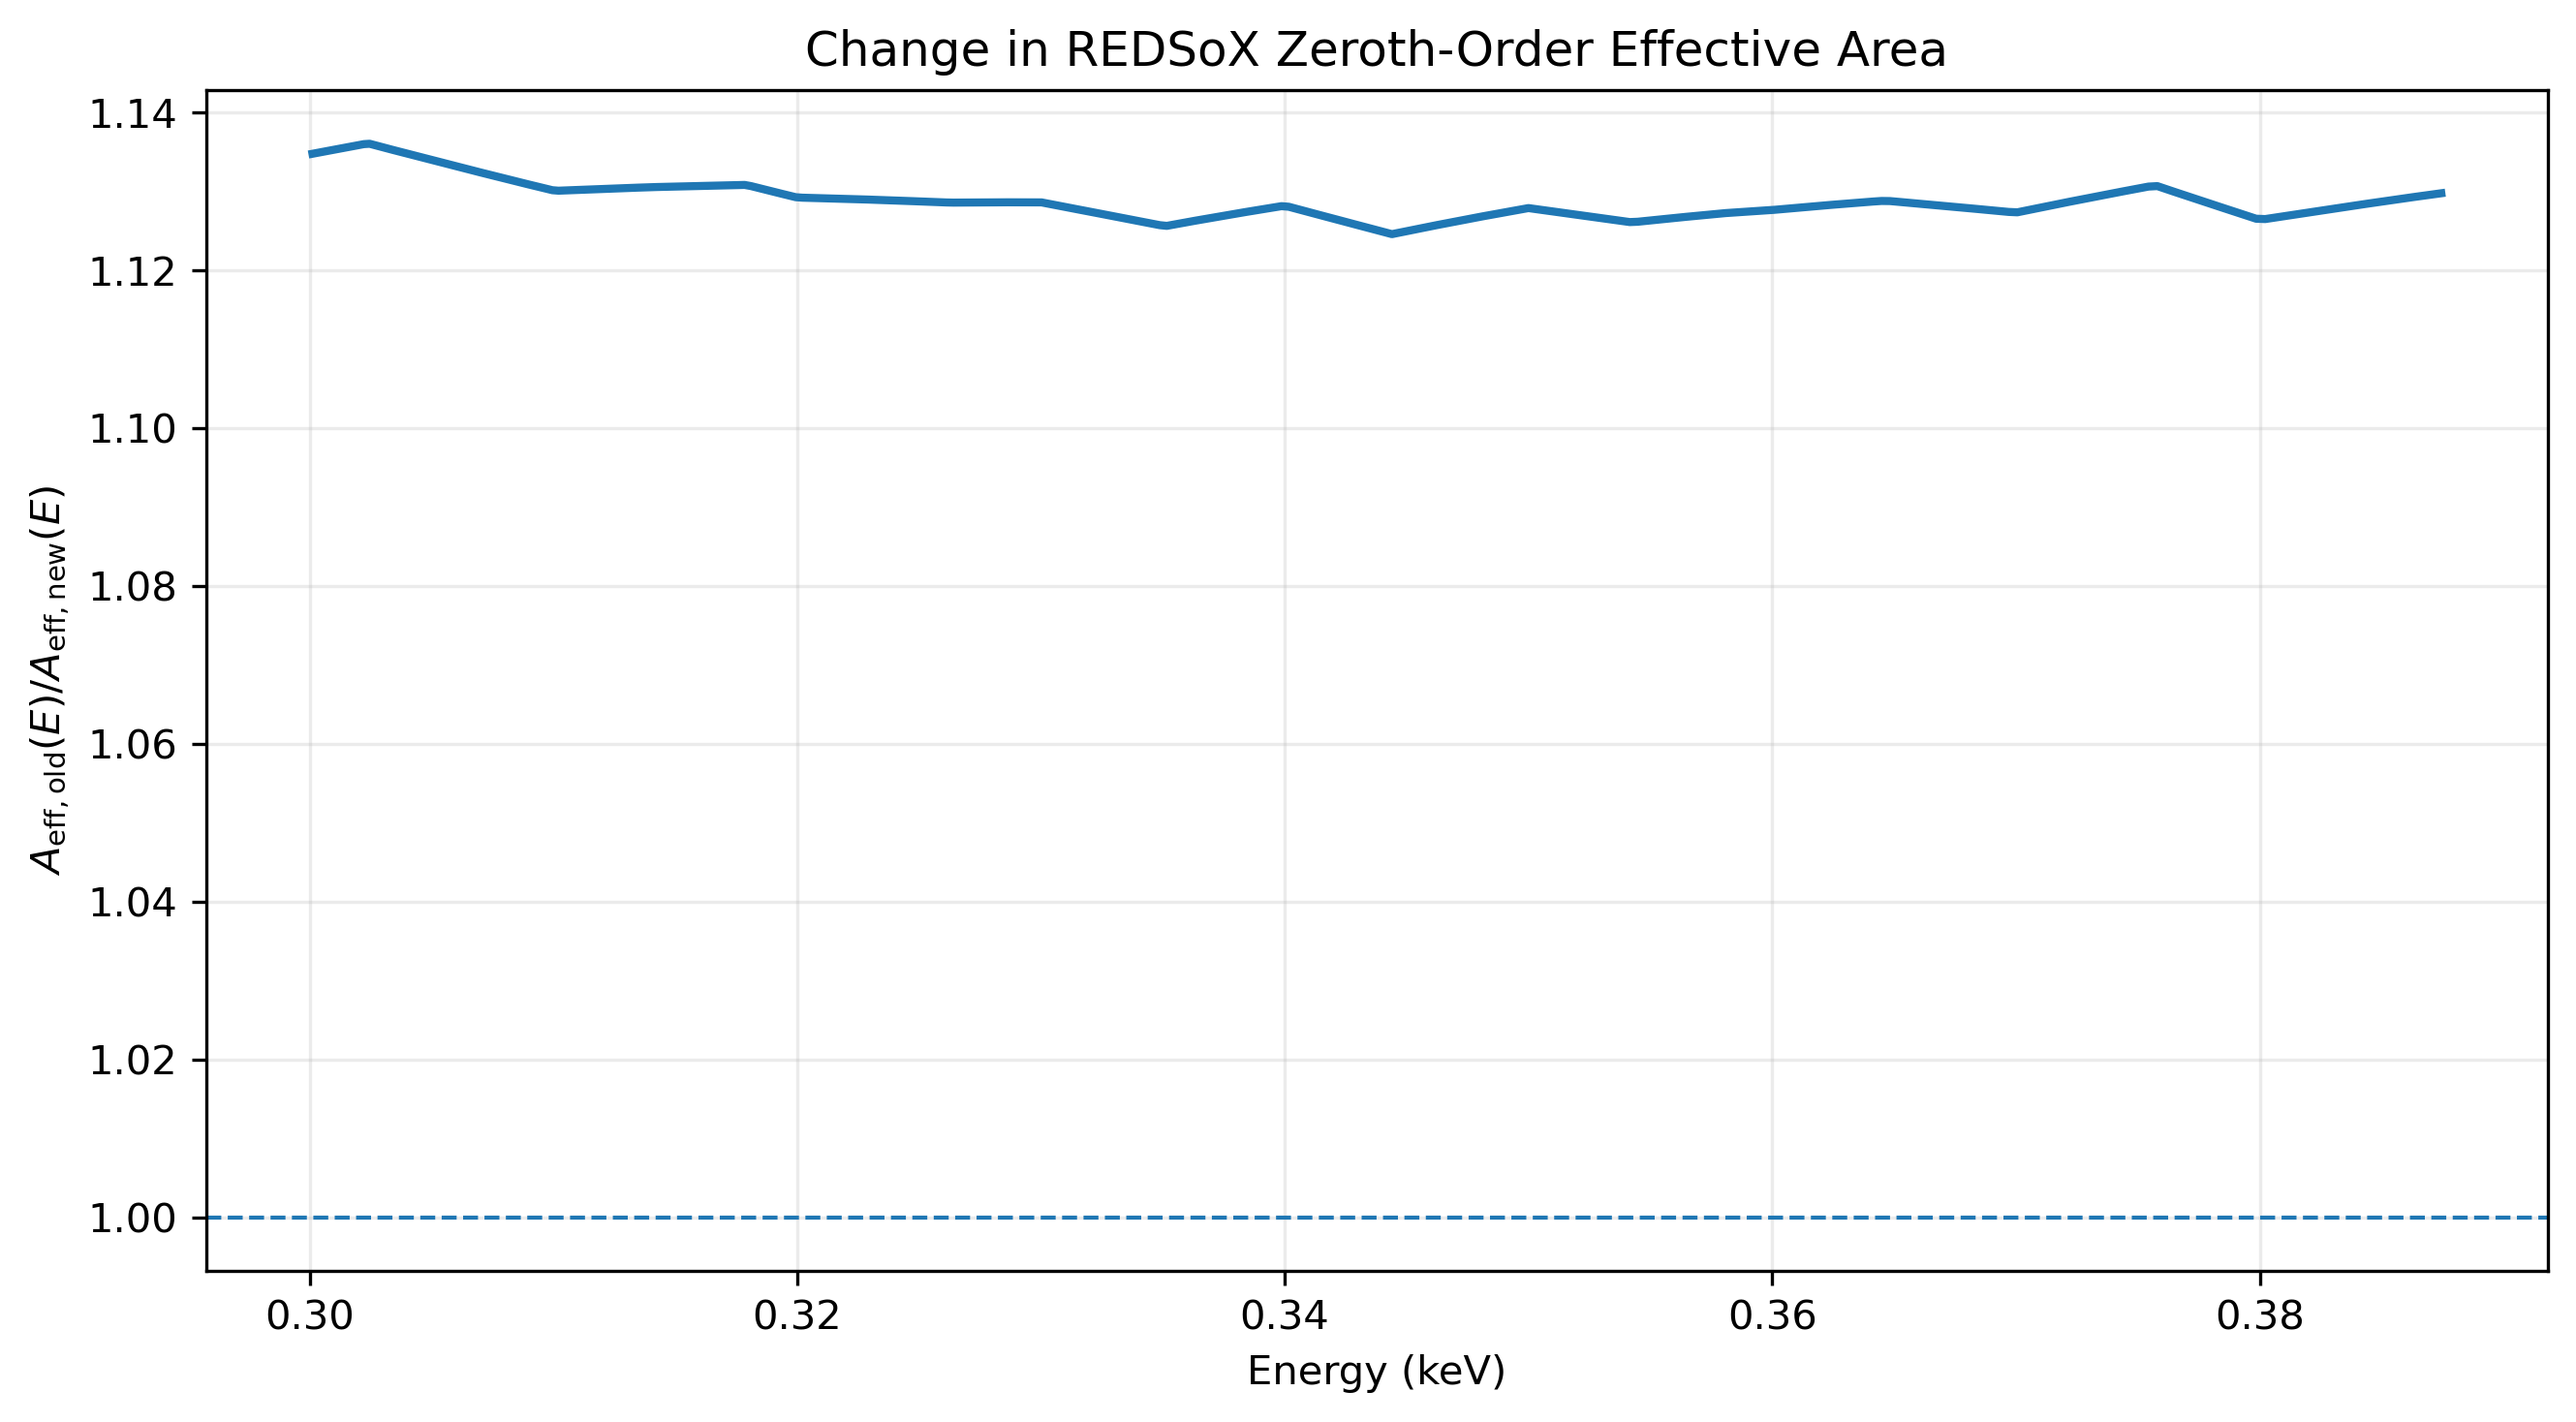
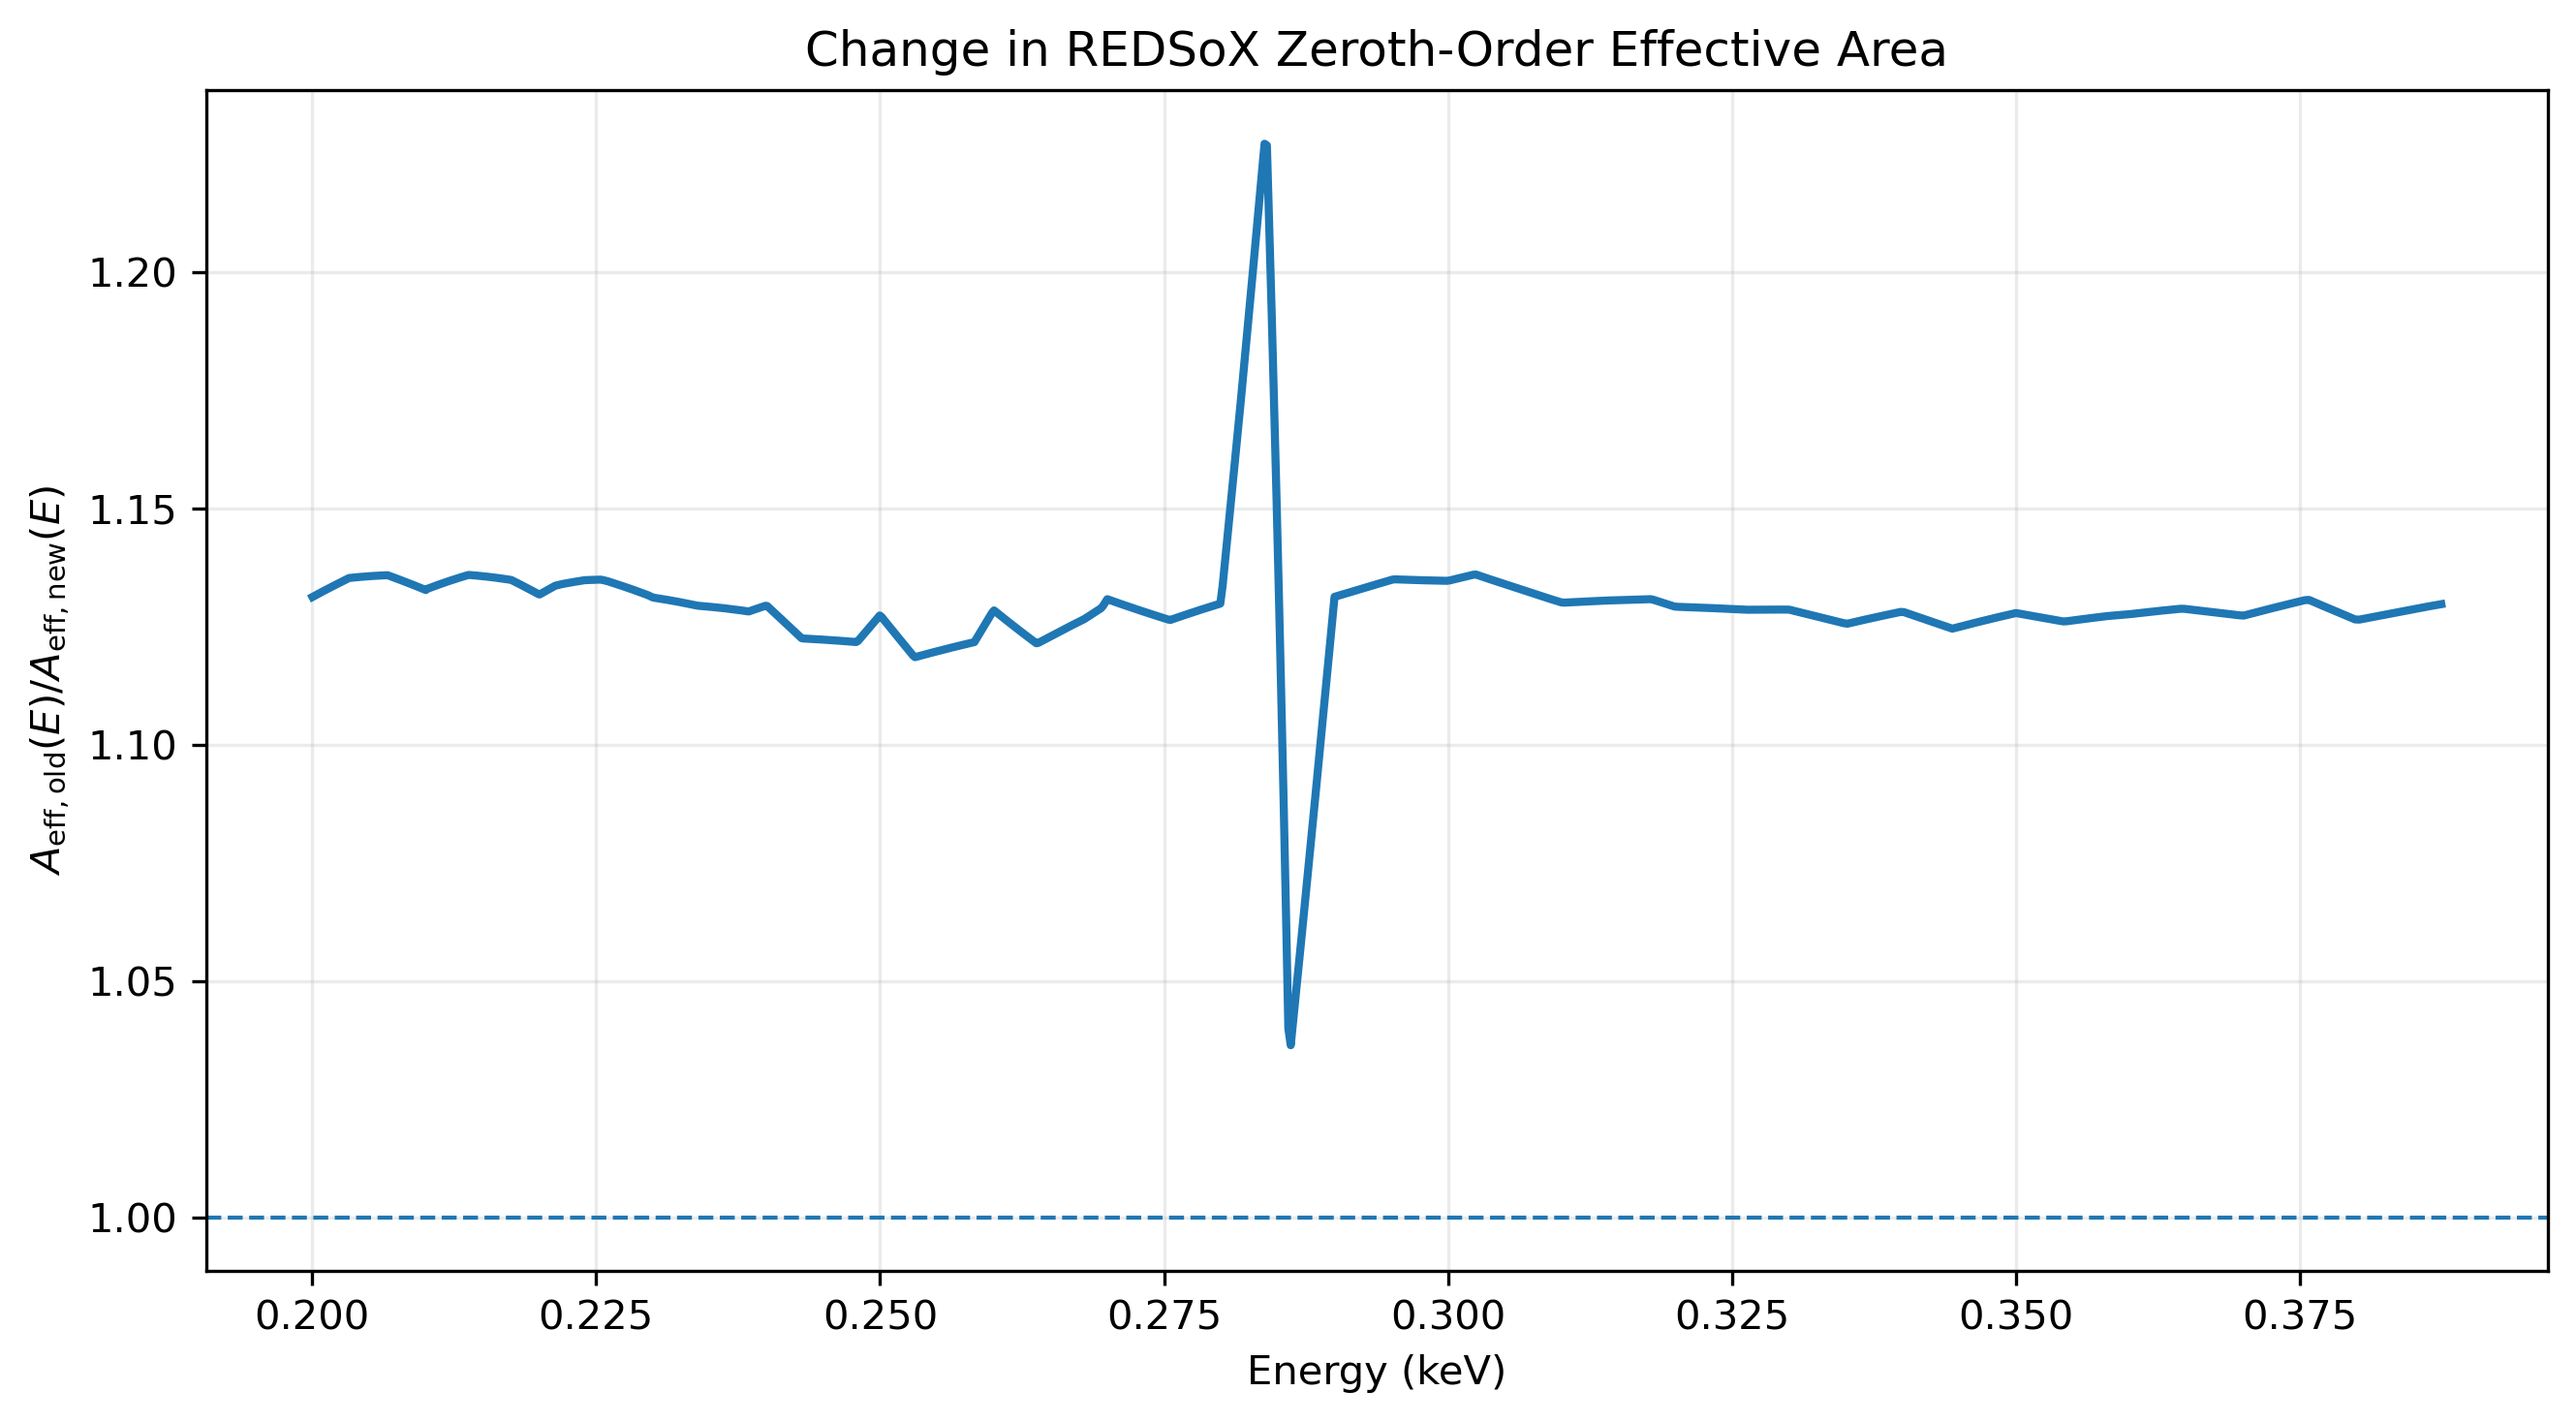
Extended mirror area input from 0.3 keV to 0.2 keV as constant

diff --git a/mdp_redsox.py b/mdp_redsox.py
@@ -792,6 +792,15 @@ def build_zeroth_order_effective_areas(data_dir: Path):
     nrg0 = np.asarray(nrg0, dtype=float)
     mirror_area0 = np.asarray(mirror_area0, dtype=float)
 
+    # extend mirror area file down to 0.2 keV using value from 0.3 keV
+    extension_energy = np.arange(0.20, 0.30, 0.01)
+
+    lowest_energy_index = np.argmin(nrg0)
+    extension_area = np.full(extension_energy.shape, mirror_area0[lowest_energy_index])
+
+    nrg0 = np.concatenate([extension_energy, nrg0])
+    mirror_area0 = np.concatenate([extension_area, mirror_area0])
+
     # keep only values that make sense: energy/areas finite, energy nonzero
     ok = np.isfinite(nrg0) & np.isfinite(mirror_area0) & (nrg0 > 0.0)
     nrg0 = nrg0[ok]
